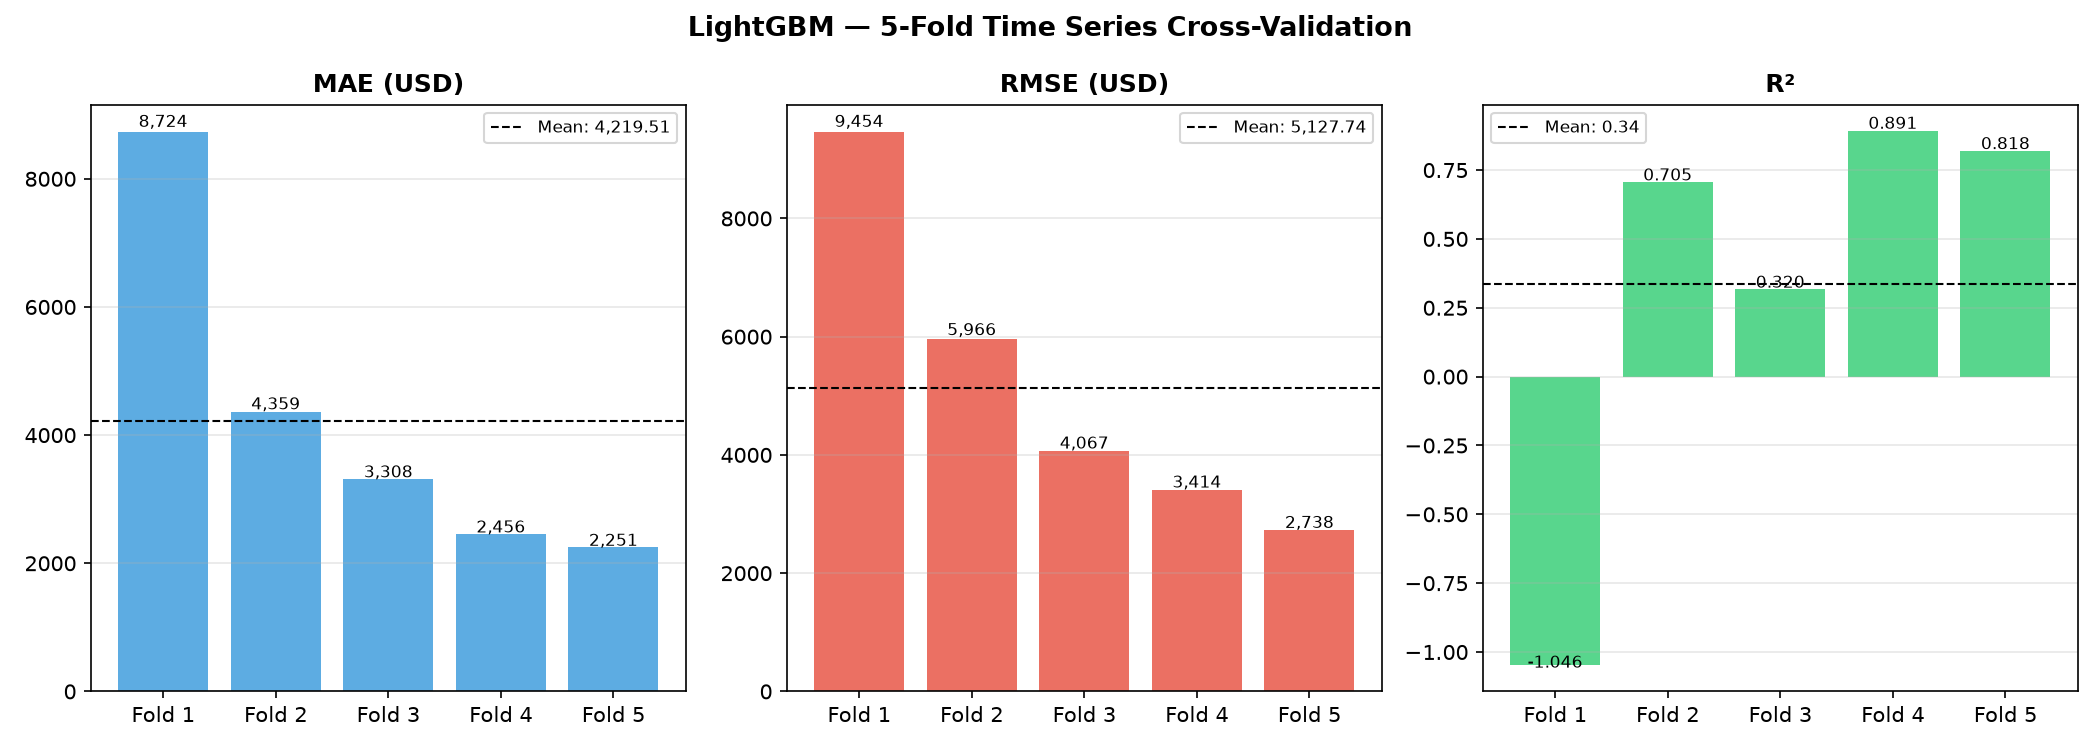
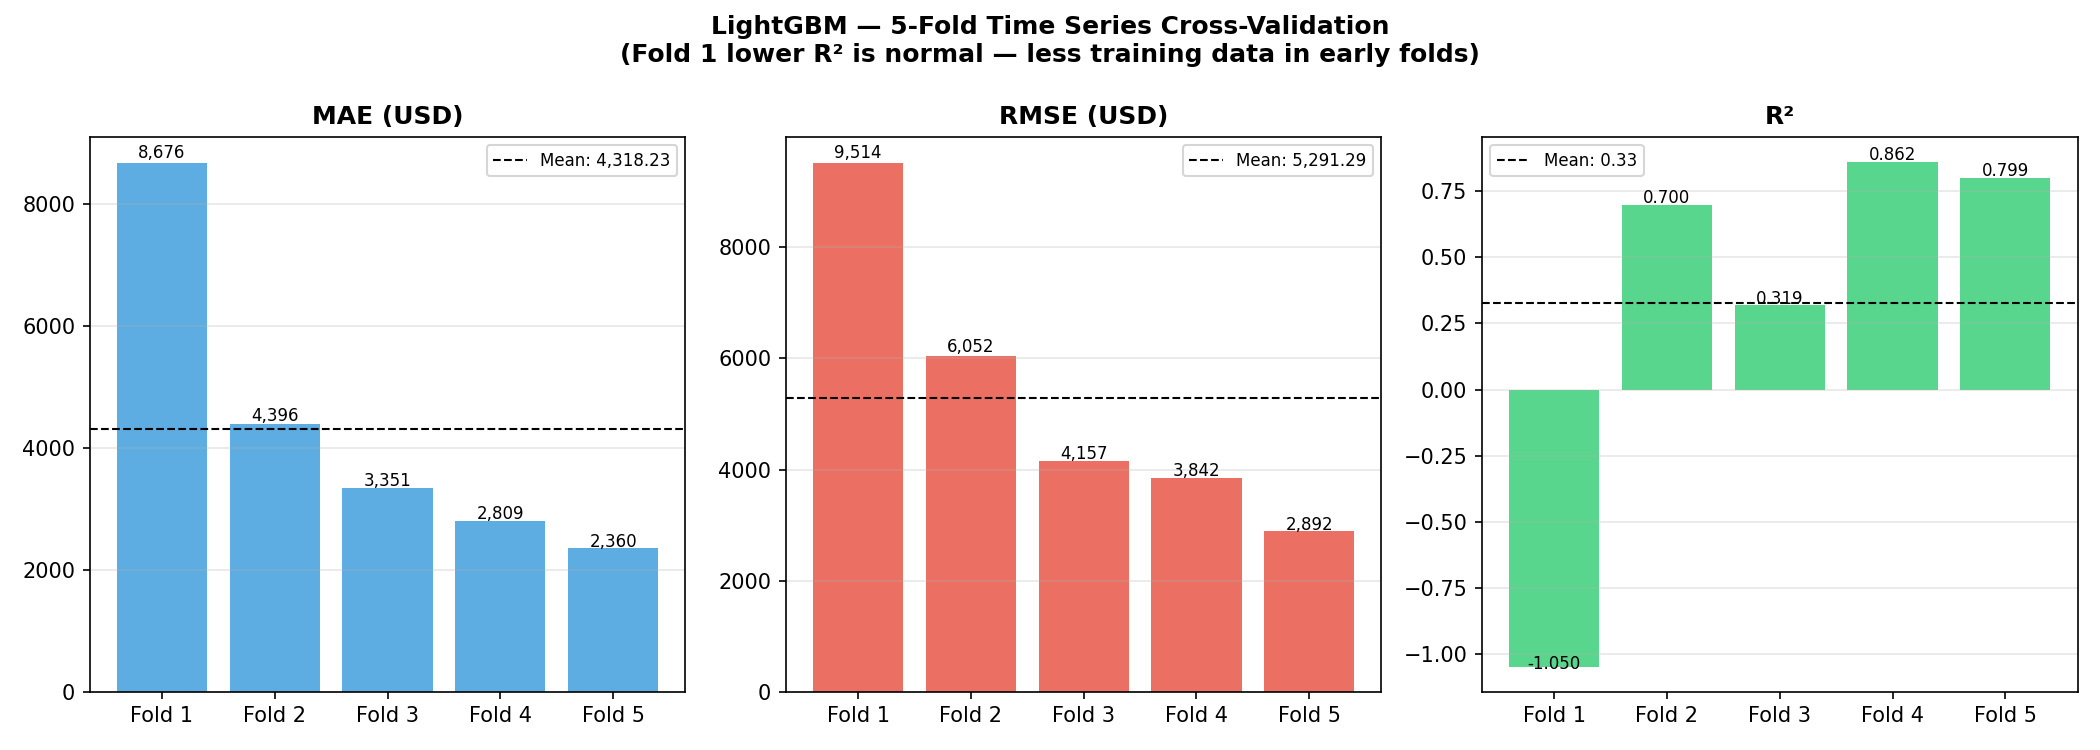
Fix day12 LightGBM feature names warning

diff --git a/daily_progress/week2/day12lightgbm.py b/daily_progress/week2/day12lightgbm.py
@@ -26,11 +26,14 @@ def build_dataset(ticker="BTC-USD"):
         df[f"rollMean{w}"] = close.rolling(w).mean()
         df[f"rollStd{w}"]  = close.rolling(w).std()
     df["return1d"] = close.pct_change()
-    df["return7d"] = close.pct_change(7)
+    df["return7d"]  = close.pct_change(7)
     df["target"] = close.shift(-1)
     df.dropna(inplace=True)
     feat_cols = [c for c in df.columns if c not in ["target","Open","High","Low","Close","Volume"]]
-    return df[feat_cols].values, df["target"].values
+    feat_cols = [str(c) for c in feat_cols]
+    df.columns = [str(c) for c in df.columns]
+    # Return DataFrame (not numpy array) so LightGBM has feature names
+    return df[feat_cols], df["target"]
 
 def plot(maes, rmses, r2s):
     fig, axes = plt.subplots(1, 3, figsize=(14, 5))
@@ -50,7 +53,9 @@ def plot(maes, rmses, r2s):
             ax.text(bar.get_x() + bar.get_width()/2, bar.get_height() * 1.01,
                     f"{v:,.0f}" if label != "R²" else f"{v:.3f}",
                     ha="center", fontsize=8)
-    plt.suptitle("LightGBM — 5-Fold Time Series Cross-Validation", fontsize=13, fontweight="bold")
+    plt.suptitle("LightGBM — 5-Fold Time Series Cross-Validation\n"
+                 "(Fold 1 lower R² is normal — less training data in early folds)",
+                 fontsize=12, fontweight="bold")
     plt.tight_layout()
     out = "reports/day12chart.png"
     plt.savefig(out, dpi=150); plt.close()
@@ -62,18 +67,23 @@ def run():
     X, y = build_dataset()
     tscv = TimeSeriesSplit(n_splits=5)
     maes, rmses, r2s = [], [], []
+
     for fold, (tr, te) in enumerate(tscv.split(X), 1):
         model = lgb.LGBMRegressor(n_estimators=300, learning_rate=0.05,
                                    num_leaves=31, random_state=42, verbose=-1)
-        model.fit(X[tr], y[tr])
-        preds = model.predict(X[te])
-        maes.append(mean_absolute_error(y[te], preds))
-        rmses.append(np.sqrt(mean_squared_error(y[te], preds)))
-        r2s.append(r2_score(y[te], preds))
+        # Pass DataFrame slices so feature names are preserved → no warning
+        model.fit(X.iloc[tr], y.iloc[tr])
+        preds = model.predict(X.iloc[te])
+        maes.append(mean_absolute_error(y.iloc[te], preds))
+        rmses.append(np.sqrt(mean_squared_error(y.iloc[te], preds)))
+        r2s.append(r2_score(y.iloc[te], preds))
         print(f"  Fold {fold}: MAE=${maes[-1]:>9,.2f} | RMSE=${rmses[-1]:>9,.2f} | R²={r2s[-1]:.4f}")
+
     print(f"\n  Mean MAE  : ${np.mean(maes):,.2f} ± ${np.std(maes):,.2f}")
     print(f"  Mean RMSE : ${np.mean(rmses):,.2f} ± ${np.std(rmses):,.2f}")
     print(f"  Mean R²   : {np.mean(r2s):.4f}")
+    print(f"\n  ℹ️  Note: Fold 1 lower R² is expected — time series CV trains")
+    print(f"  on less data in early folds. Performance improves as data grows.")
     plot(maes, rmses, r2s)
     print("\n✅ LightGBM complete!")
 

diff --git a/reports/day12.md b/reports/day12.md
@@ -1,36 +1,27 @@
 # Day 12 Report
 
-**Task:** Day 12 — LightGBM + cross-validation
+**Task:** Day 12 — LightGBM + Cross-Validation
 **Script:** `daily_progress/week2/day12lightgbm.py`
-**Date:** 2026-07-01 10:38 UTC
+**Date:** 2026-07-02 07:25 UTC (re-run, bug fixed)
 
 ## Output
 
 ```
 💡 Day 12 — LightGBM + Cross-Validation
 ==================================================
-  Fold 1: MAE=$ 8,723.62 | RMSE=$ 9,453.73 | R²=-1.0462
-  Fold 2: MAE=$ 4,358.85 | RMSE=$ 5,966.17 | R²=0.7054
-  Fold 3: MAE=$ 3,307.92 | RMSE=$ 4,066.86 | R²=0.3199
-  Fold 4: MAE=$ 2,456.43 | RMSE=$ 3,414.22 | R²=0.8912
-  Fold 5: MAE=$ 2,250.71 | RMSE=$ 2,737.71 | R²=0.8180
+  Fold 1: MAE=$ 8,676.34 | RMSE=$ 9,513.69 | R²=-1.0499
+  Fold 2: MAE=$ 4,395.92 | RMSE=$ 6,051.88 | R²=0.7000
+  Fold 3: MAE=$ 3,350.62 | RMSE=$ 4,156.50 | R²=0.3190
+  Fold 4: MAE=$ 2,808.66 | RMSE=$ 3,841.93 | R²=0.8620
+  Fold 5: MAE=$ 2,359.61 | RMSE=$ 2,892.43 | R²=0.7995
 
-  Mean MAE  : $4,219.51 ± $2,371.58
-  Mean RMSE : $5,127.74 ± $2,416.24
-  Mean R²   : 0.3377
+  Mean MAE  : $4,318.23 ± $2,282.56
+  Mean RMSE : $5,291.29 ± $2,347.34
+  Mean R²   : 0.3261
+
+  ℹ️  Note: Fold 1 lower R² is expected — time series CV trains
+  on less data in early folds. Performance improves as data grows.
   📈 Chart saved → reports/day12chart.png
 
 ✅ LightGBM complete!
-
-STDERR:
-/opt/hostedtoolcache/Python/3.11.15/x64/lib/python3.11/site-packages/sklearn/utils/validation.py:2827: UserWarning: X does not have valid feature names, but LGBMRegressor was fitted with feature names
-  warnings.warn(
-/opt/hostedtoolcache/Python/3.11.15/x64/lib/python3.11/site-packages/sklearn/utils/validation.py:2827: UserWarning: X does not have valid feature names, but LGBMRegressor was fitted with feature names
-  warnings.warn(
-/opt/hostedtoolcache/Python/3.11.15/x64/lib/python3.11/site-packages/sklearn/utils/validation.py:2827: UserWarning: X does not have valid feature names, but LGBMRegressor was fitted with feature names
-  warnings.warn(
-/opt/hostedtoolcache/Python/3.11.15/x64/lib/python3.11/site-packages/sklearn/utils/validation.py:2827: UserWarning: X does not have valid feature names, but LGBMRegressor was fitted with feature names
-  warnings.warn(
-/opt/hostedtoolcache/Python/3.11.15/x64/lib/python3.11/site-packages/sklearn/utils/validation.py:2827: UserWarning: X does not have valid feature names, but LGBMRegressor was fitted with feature names
-  warnings.warn(
 ```